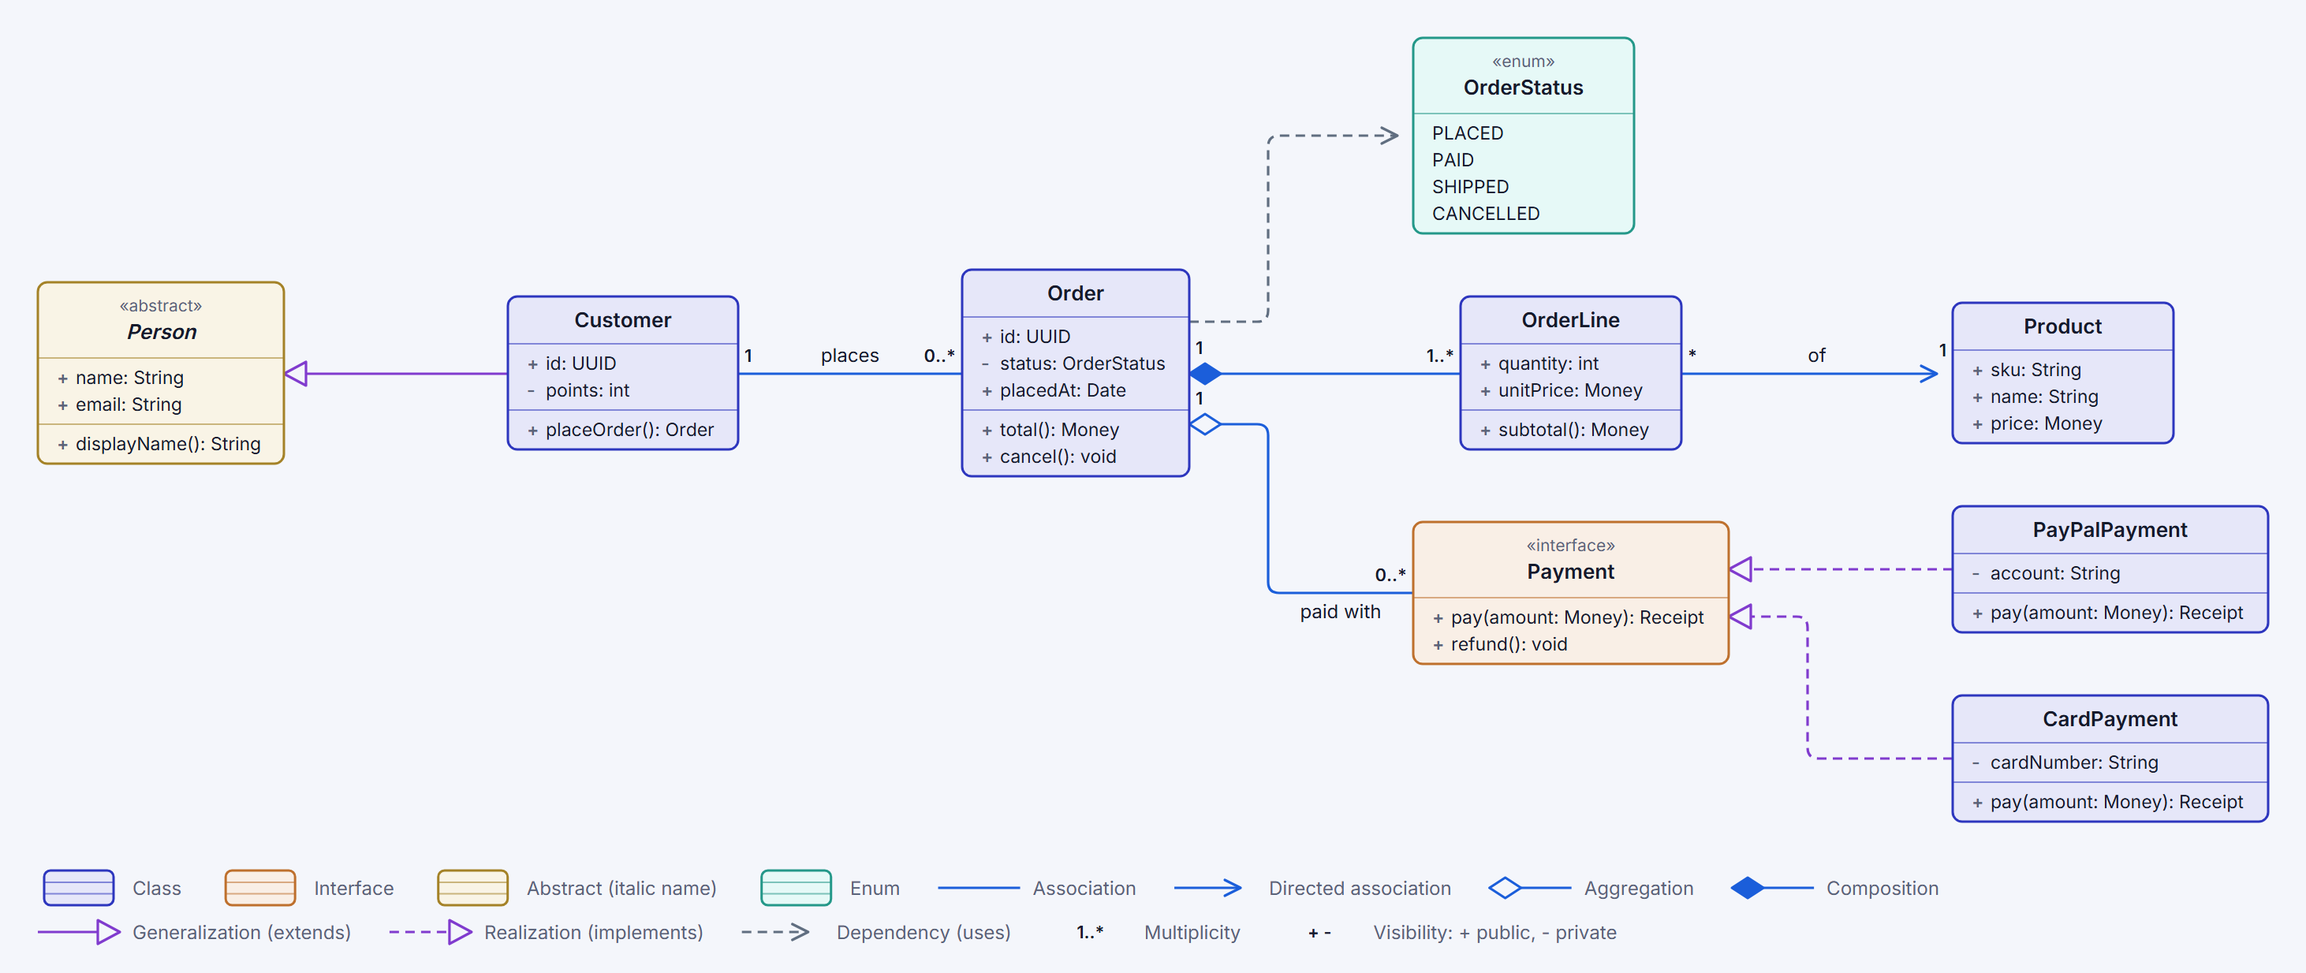
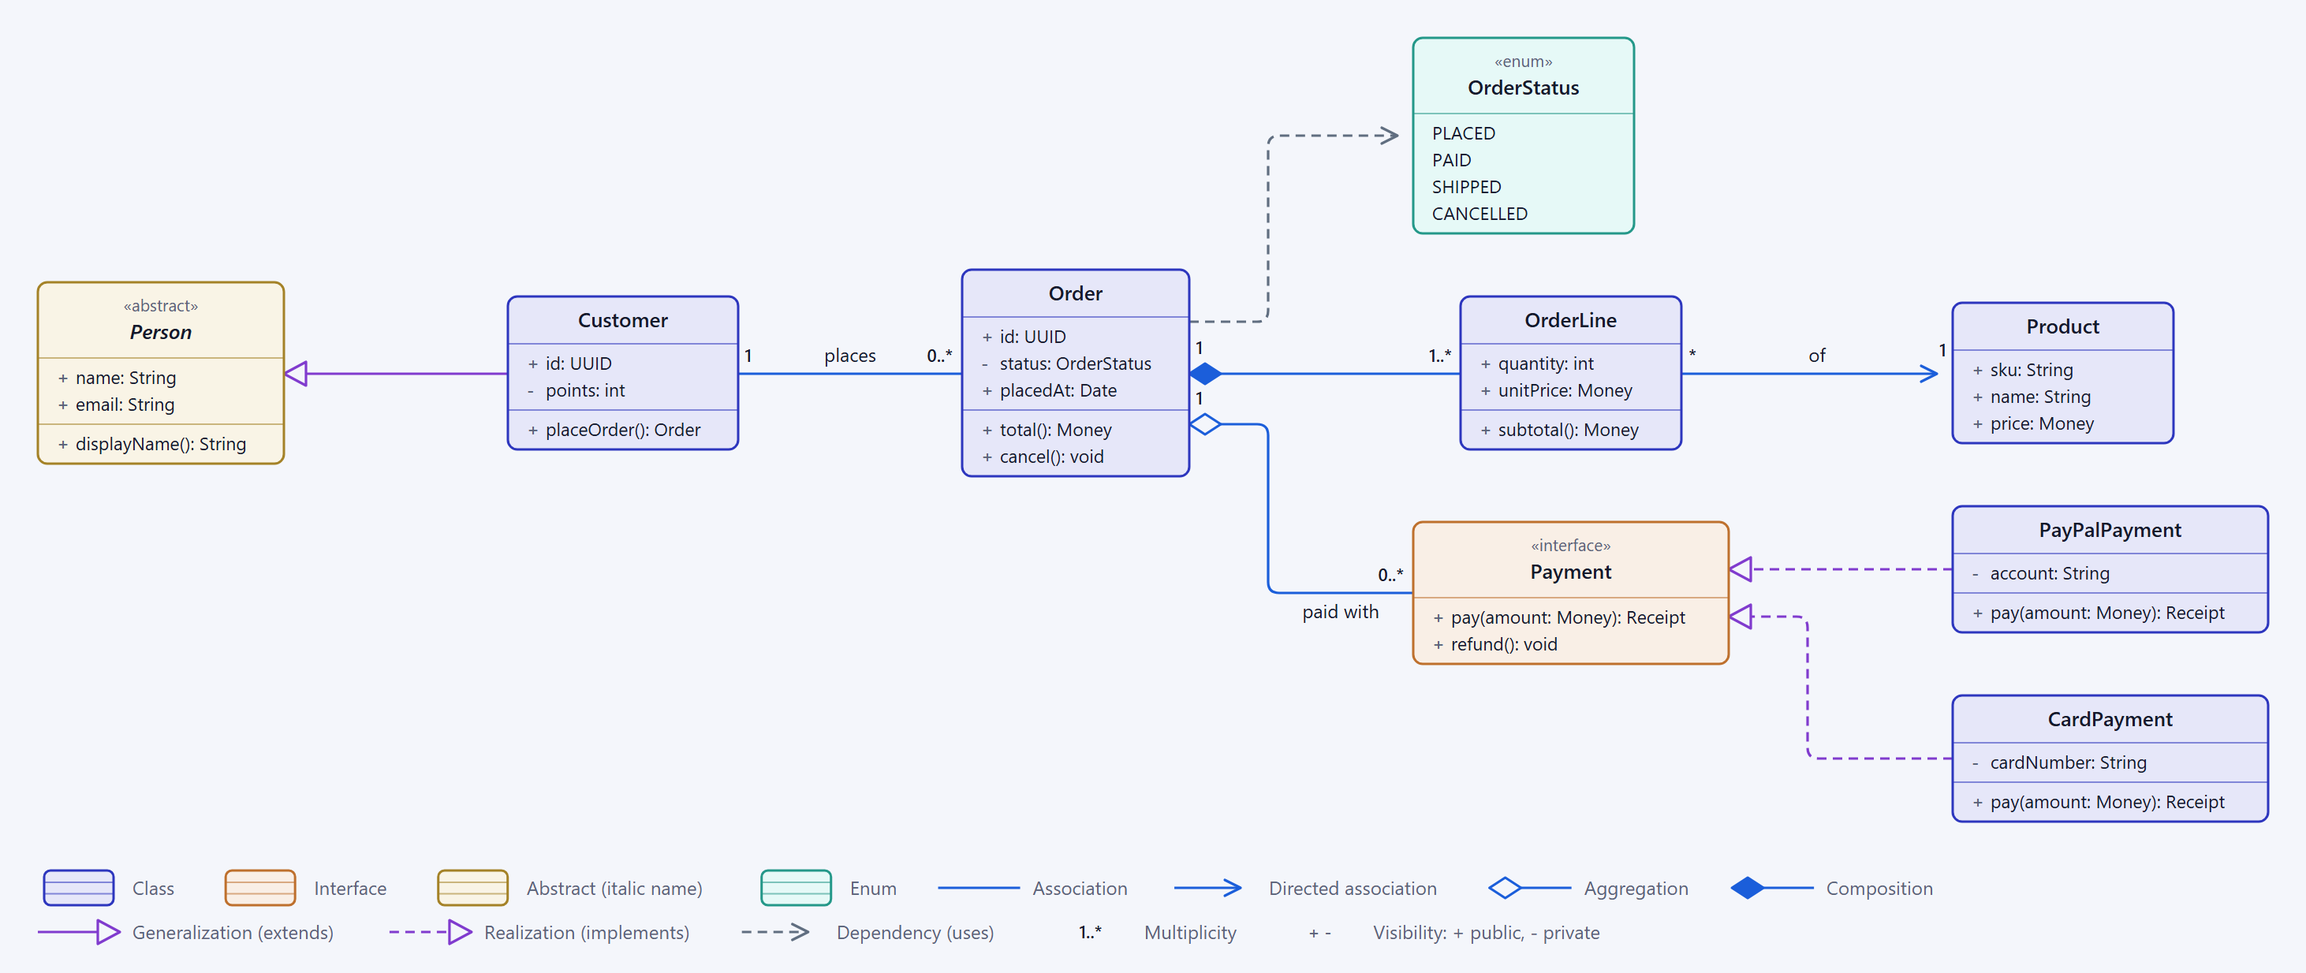
fix(class): keep relation text clear, spread hub ends and mute the legend glyph

diff --git a/src/layout/class.ts b/src/layout/class.ts
@@ -35,8 +35,8 @@ const MIN_WIDTH = 140;
 const VISIBILITY_INDENT = 12;
 /** A line end keeps this far from the corner of its side, so a marker never sits on the curve. */
 const END_INSET = 14;
-/** Closest two line ends may sit on one side: a multiplicity (14 px high) fits between two lines. */
-const END_STEP = 28;
+/** Closest two line ends may sit on one side: a multiplicity (14 px high) still fits between two lines. */
+const END_STEP = 22;
 /** Run between a class and the first bend of a line: room for the longest marker, a corner and a stretch of line. */
 const STUB = 50;
 const LOOP_RISE = 52;
@@ -55,6 +55,8 @@ interface Sized {
   node: ClassNode;
   w: number;
   h: number;
+  /** Height the members need; the box is taller only when its line ends need more room. */
+  base: number;
   head: number;
   attributes: ClassMember[];
   methods: ClassMember[];
@@ -85,13 +87,15 @@ function size(node: ClassNode, loops: number[]): Sized {
   );
   const rows = compartments.length === 0 ? 1 : compartments.reduce((n, c) => n + c.length, 0);
   const slots = loops.length * LOOP_SLOT + 8;
+  const h =
+    (stereotype === undefined ? HEAD : HEAD_STEREOTYPE) +
+    Math.max(1, compartments.length) * COMPARTMENT_PAD +
+    rows * ROW;
   return {
     node,
     w: Math.max(MIN_WIDTH, even(widest), loops.length > 0 ? slots : 0),
-    h:
-      (stereotype === undefined ? HEAD : HEAD_STEREOTYPE) +
-      Math.max(1, compartments.length) * COMPARTMENT_PAD +
-      rows * ROW,
+    h,
+    base: h,
     head: stereotype === undefined ? HEAD : HEAD_STEREOTYPE,
     attributes: node.attributes,
     methods: node.methods,
@@ -127,23 +131,26 @@ function sceneNode(s: Sized, x: number, y: number): SceneNode {
   }
   if (node.stereotype === "abstract") c.abstract = true;
   let top = y + s.head;
-  [s.attributes, s.methods]
-    .filter((comp) => comp.length > 0)
-    .forEach((comp, k) => {
-      if (k > 0) c.rules.push(top);
-      const method = comp === s.methods;
-      comp.forEach((m, j) => {
-        const rowTop = top + COMPARTMENT_PAD / 2 + j * ROW + (ROW - lineHeight(MEMBER_SIZE)) / 2;
-        const bodyX = x + 12 + (m.visibility === undefined ? 0 : VISIBILITY_INDENT);
-        c.members.push({
-          ...(m.visibility === undefined
-            ? {}
-            : { vis: text(m.visibility, MEMBER_SIZE, 600, x + 12, rowTop, "start") }),
-          text: text(memberText(m, method), MEMBER_SIZE, 400, bodyX, rowTop, "start"),
-        });
+  const filled = [s.attributes, s.methods].filter((comp) => comp.length > 0);
+  // A box grown for its line ends shares the extra height between its compartments and centres the
+  // rows in them, so it reads as a deliberately tall card, not as a box with an empty bottom.
+  const extra = (s.h - s.base) / Math.max(1, filled.length);
+  filled.forEach((comp, k) => {
+    if (k > 0) c.rules.push(top);
+    const method = comp === s.methods;
+    comp.forEach((m, j) => {
+      const rowTop =
+        top + COMPARTMENT_PAD / 2 + extra / 2 + j * ROW + (ROW - lineHeight(MEMBER_SIZE)) / 2;
+      const bodyX = x + 12 + (m.visibility === undefined ? 0 : VISIBILITY_INDENT);
+      c.members.push({
+        ...(m.visibility === undefined
+          ? {}
+          : { vis: text(m.visibility, MEMBER_SIZE, 600, x + 12, rowTop, "start") }),
+        text: text(memberText(m, method), MEMBER_SIZE, 400, bodyX, rowTop, "start"),
       });
-      top += COMPARTMENT_PAD + comp.length * ROW;
     });
+    top += COMPARTMENT_PAD + comp.length * ROW + extra;
+  });
   const out: SceneNode = {
     id: node.id,
     kind: node.stereotype ?? "class",
@@ -500,21 +507,46 @@ export async function layoutClass(d: ClassDiagram): Promise<Scene> {
     obstacles.push({ r: rectOf(box), gap: TEXT_GAP });
     return box;
   };
-  const firstFree = (candidates: Box[]) => take(candidates.find(free) ?? candidates[0]!);
+  /** How much of a box lies on obstacles: the measure of last resort when no candidate is free. */
+  const overlap = (box: Box) => {
+    const r = rectOf(box);
+    return obstacles.reduce((sum, o) => {
+      const w = Math.min(r.x1, o.r.x1 + o.gap) - Math.max(r.x0, o.r.x0 - o.gap);
+      const h = Math.min(r.y1, o.r.y1 + o.gap) - Math.max(r.y0, o.r.y0 - o.gap);
+      return w > 0 && h > 0 ? sum + w * h : sum;
+    }, 0);
+  };
+  // The first free candidate wins (nearest first); with none free, the one lying on the least.
+  const firstFree = (candidates: Box[]) =>
+    take(
+      candidates.find(free) ??
+        candidates.reduce((best, c) => (overlap(c) < overlap(best) ? c : best)),
+    );
 
   /** Candidate boxes for a multiplicity next to the end at p; u points along the line away from the class. */
-  const multCandidates = (w: number, h: number, p: Point, u: Point, half: number): Box[] => {
-    const gap = Math.max(half, 1.6) + 3;
+  const multCandidates = (
+    w: number,
+    h: number,
+    p: Point,
+    u: Point,
+    half: number,
+    len: number,
+  ): Box[] => {
+    const wide = Math.max(half, 1.6) + 3;
     const out: Box[] = [];
-    for (const along of [0, 14, 28, 42]) {
-      if (Math.abs(u.x) > 0.5) {
-        const x = u.x > 0 ? p.x + 4 + along : p.x - 4 - along - w;
-        out.push({ x, y: p.y - gap - h, w, h }, { x, y: p.y + gap, w, h });
-      } else {
-        const y = u.y < 0 ? p.y - 3 - along - h : p.y + 3 + along;
-        out.push({ x: p.x + gap, y, w, h }, { x: p.x - gap - w, y, w, h });
+    // Nearest first: along the leg, then farther from the line, on both sides.
+    for (const out2 of [0, 10, 20])
+      for (const along of [0, 14, 28, 42, 56, 70, 84]) {
+        // Past the marker the text may sit as close as to a plain line.
+        const gap = along + 4 >= len ? 4.6 : wide;
+        if (Math.abs(u.x) > 0.5) {
+          const x = u.x > 0 ? p.x + 4 + along : p.x - 4 - along - w;
+          out.push({ x, y: p.y - gap - out2 - h, w, h }, { x, y: p.y + gap + out2, w, h });
+        } else {
+          const y = u.y < 0 ? p.y - 3 - along - h : p.y + 3 + along;
+          out.push({ x: p.x + gap + out2, y, w, h }, { x: p.x - gap - out2 - w, y, w, h });
+        }
       }
-    }
     return out;
   };
 
@@ -529,7 +561,16 @@ export async function layoutClass(d: ClassDiagram): Promise<Scene> {
       if (value === undefined) continue;
       const w = textWidth(value, MULT_SIZE, 600);
       const h = lineHeight(MULT_SIZE);
-      const box = firstFree(multCandidates(w, h, p, dir(p, q), MARKER_HALF[r.rel.kind][end]));
+      const box = firstFree(
+        multCandidates(
+          w,
+          h,
+          p,
+          dir(p, q),
+          MARKER_HALF[r.rel.kind][end],
+          MARKER_LENGTH[r.rel.kind][end],
+        ),
+      );
       found[key] = placeText(value, MULT_SIZE, 600, box);
     }
     return found;
@@ -547,21 +588,22 @@ export async function layoutClass(d: ClassDiagram): Promise<Scene> {
           q.len - p.len,
       );
     const candidates: Box[] = [];
-    for (const f of [0.5, 0.3, 0.7, 0.15, 0.85])
-      for (const { a, b } of legs) {
-        const x = a.x + (b.x - a.x) * f;
-        const y = a.y + (b.y - a.y) * f;
-        if (Math.abs(a.y - b.y) < 1e-6)
-          candidates.push(
-            { x: x - w / 2, y: y - TEXT_GAP - h, w, h },
-            { x: x - w / 2, y: y + TEXT_GAP, w, h },
-          );
-        else
-          candidates.push(
-            { x: x + TEXT_GAP + 2, y: y - h / 2, w, h },
-            { x: x - TEXT_GAP - 2 - w, y: y - h / 2, w, h },
-          );
-      }
+    for (const out2 of [0, 12, 24])
+      for (const f of [0.5, 0.3, 0.7, 0.15, 0.85, 0.4, 0.6, 0.22, 0.78])
+        for (const { a, b } of legs) {
+          const x = a.x + (b.x - a.x) * f;
+          const y = a.y + (b.y - a.y) * f;
+          if (Math.abs(a.y - b.y) < 1e-6)
+            candidates.push(
+              { x: x - w / 2, y: y - TEXT_GAP - out2 - h, w, h },
+              { x: x - w / 2, y: y + TEXT_GAP + out2, w, h },
+            );
+          else
+            candidates.push(
+              { x: x + TEXT_GAP + 2 + out2, y: y - h / 2, w, h },
+              { x: x - TEXT_GAP - 2 - out2 - w, y: y - h / 2, w, h },
+            );
+        }
     return placeText(r.rel.label, LABEL_SIZE, 400, firstFree(candidates));
   });
 

diff --git a/test/unit/class-render.test.ts b/test/unit/class-render.test.ts
@@ -8,6 +8,7 @@ import { make } from "../../src/index.js";
 import { layoutDiagram } from "../../src/layout/index.js";
 import { validateDiagram } from "../../src/model/index.js";
 import { renderSvg } from "../../src/render/svg.js";
+import { MARKER_HALF } from "../../src/render/class.js";
 import type { Box, Point, Scene, SceneEdge, SceneNode } from "../../src/scene.js";
 
 const example = JSON.parse(readFileSync("examples/class.json", "utf8")) as {
@@ -79,6 +80,28 @@ function textBoxes(e: SceneEdge): Box[] {
   );
 }
 
+/** The box a marker fills at each end of a relation. */
+function markerBoxes(e: SceneEdge): Box[] {
+  const n = e.points.length;
+  return ([0, 1] as const).flatMap((end) => {
+    const len = LENGTH[e.rel!.kind]![end];
+    if (len === 0) return [];
+    const p = end === 0 ? e.points[0]! : e.points[n - 1]!;
+    const q = end === 0 ? e.points[1]! : e.points[n - 2]!;
+    const half = MARKER_HALF[e.rel!.kind][end];
+    return [
+      Math.abs(p.y - q.y) < 1e-6
+        ? { x: Math.min(p.x, p.x + Math.sign(q.x - p.x) * len), y: p.y - half, w: len, h: 2 * half }
+        : {
+            x: p.x - half,
+            y: Math.min(p.y, p.y + Math.sign(q.y - p.y) * len),
+            w: 2 * half,
+            h: len,
+          },
+    ];
+  });
+}
+
 /** Everything the layout promises about any class scene. */
 function expectClean(scene: Scene, name: string): void {
   expect(checkGeometry(scene), name).toEqual([]);
@@ -131,6 +154,14 @@ function expectClean(scene: Scene, name: string): void {
         ).toBe(false);
       });
   }
+  // ... and of every marker.
+  for (const { e, box } of all)
+    for (const f of scene.edges)
+      for (const m of markerBoxes(f))
+        expect(
+          overlaps(box, m, 1),
+          `${name}: text of ${e.from}->${e.to} on a marker of ${f.from}->${f.to}`,
+        ).toBe(false);
   for (let i = 0; i < all.length; i++)
     for (let j = i + 1; j < all.length; j++)
       expect(overlaps(all[i]!.box, all[j]!.box, 2), `${name}: texts ${i} and ${j}`).toBe(false);
@@ -292,6 +323,66 @@ describe("class layout, any valid diagram", () => {
     expectClean(s, "hub");
   });
 
+  it("a hub with many named relations with multiplicities on one side keeps every text clear", async () => {
+    const kinds = ["--", "*--", "o--", "-->", "--|>", "..>"];
+    for (const count of [6, 12, 16]) {
+      const names = Array.from({ length: count }, (_, i) => `K${i}`);
+      const rels = names.map((n, i) => {
+        const op = kinds[i % kinds.length]!;
+        const bare = op === "--|>" || op === "..>";
+        return bare
+          ? `Hub ${op} ${n} : a rather long role name ${i}`
+          : `Hub 1..* ${op} 0..* ${n} : a rather long relation name ${i}`;
+      });
+      const s = await sceneOf(
+        diagram(
+          [
+            cls("Hub", { attributes: ["+ id: int", "+ name: String"] }),
+            ...names.map((n) => cls(n)),
+          ],
+          rels,
+        ),
+      );
+      expectClean(s, `crowded hub ${count}`);
+    }
+  });
+
+  it("a hub does not grow taller than its members when its ends fit", async () => {
+    const hub = {
+      attributes: ["+ a: int", "+ b: int", "+ c: int", "+ d: int"],
+      methods: ["+ f(): void", "+ g(): void"],
+    };
+    const heightWith = async (count: number) => {
+      const names = Array.from({ length: count }, (_, i) => `K${i}`);
+      const s = await sceneOf(
+        diagram(
+          [cls("Hub", hub), ...names.map((n) => cls(n))],
+          names.map((n) => `Hub 1 -- * ${n}`),
+        ),
+      );
+      expectClean(s, `hub ${count}`);
+      return node(s, "Hub").h;
+    };
+    const natural = await heightWith(1);
+    expect(await heightWith(6)).toBe(natural);
+  });
+
+  it("when a hub must grow, its members sit centred in their compartment (no hole below)", async () => {
+    const names = Array.from({ length: 10 }, (_, i) => `K${i}`);
+    const s = await sceneOf(
+      diagram(
+        [cls("Hub", { attributes: ["+ a: int"] }), ...names.map((n) => cls(n))],
+        names.map((n) => `Hub 1 -- * ${n}`),
+      ),
+    );
+    const hub = node(s, "Hub");
+    const row = hub.class!.members[0]!.text;
+    const above = row.y - hub.class!.rules[0]!;
+    const below = hub.y + hub.h - row.y;
+    expect(hub.h).toBeGreaterThan(140);
+    expect(Math.abs(above - below)).toBeLessThan(10);
+  });
+
   it("long names and long members widen the box and stay inside it", async () => {
     const s = await sceneOf(
       diagram(
@@ -419,6 +510,14 @@ describe("class svg", () => {
       "Class",
       "Generalization (extends)",
     ]);
+  });
+
+  it("draws the legend visibility glyph in the muted color of the marks in the boxes", async () => {
+    const svg = renderSvg(await sceneOf(example));
+    const glyph = /<text class="([^"]*)"[^>]*>\+ -<\/text>/.exec(svg)!;
+    expect(glyph[1]).toContain("t-class-vis");
+    expect(glyph[1]).not.toContain("t-class-text");
+    expect(svg).toMatch(/\.t-class-vis \{ fill: var\(--t-muted,/);
   });
 
   it("works in the black-and-white export: every color is a theme variable", async () => {

diff --git a/src/render/class.ts b/src/render/class.ts
@@ -156,7 +156,9 @@ export function classGlyph(name: string, s: Box): string {
   }
   if (name === "class-mult" || name === "class-vis") {
     const label = name === "class-mult" ? "1..*" : "+ -";
-    return `<text class="t-text t-class-text t-class-mult" x="${num(s.x + s.w / 2)}" y="${num(cy + 4)}" font-size="11" font-weight="600" text-anchor="middle">${label}</text>`;
+    // The visibility glyph wears the class of the marks in the boxes, so every theme mutes it alike.
+    const cls = name === "class-mult" ? "t-class-text t-class-mult" : "t-class-vis";
+    return `<text class="t-text ${cls}" x="${num(s.x + s.w / 2)}" y="${num(cy + 4)}" font-size="11" font-weight="600" text-anchor="middle">${label}</text>`;
   }
   const kind = name.slice("class-rel-".length) as RelationKind;
   const pts = [

diff --git a/CHANGELOG.md b/CHANGELOG.md
@@ -7,6 +7,7 @@ All notable changes to trazo are listed here. The format follows [Keep a Changel
 ### Added
 
 - New diagram type `class` (UML class diagram, basic notation). `classes` (`stereotype`: `abstract`, `interface` or `enum`; `attributes` and `methods` as UML strings such as `"+ id: UUID"` and `"- total(): Money"`; an enum lists its constants in `attributes`) and `relations` as one-line strings such as `"Order 1 *-- 1..* OrderLine : has"` with the operators `--`, `-->`, `*--`, `o--`, `--|>`, `..|>` and `..>` and optional multiplicities (`1`, `0..1`, `*`, `1..*`, `0..*`, `n..m`) and label. `trazo make` draws it: ELK places the classes in layers from left to right, so the order flow reads as one direction and each hierarchy (a parent or an interface before its children) is a small group at its edge; every class is a box with a name header (a `«interface»`, `«abstract»` or `«enum»` line above the name, an italic name for an abstract class), an attribute compartment and a method compartment, tinted as a whole by its kind. Relations are orthogonal lines whose ends and markers sit exactly on the class borders, away from the corners: a hollow triangle for generalization (solid line) and realization (dashed), a filled (composition) or hollow (aggregation) diamond at the whole end, an open arrow for directed association and dependency (dashed). Multiplicities and labels sit next to the ends where they touch no line, marker or class, and a relation of a class to itself is a loop above the class. A legend (English, only the kinds and relations used) is drawn below the diagram; the viewer has no Flow toggle, and its detail card lists the stereotype, attributes, methods and relations of a class in plain language ("Extends Person.", "Is composed of OrderLine (1..*)."). It works in the four themes and in the black-and-white export. New codes: `class/member-syntax`, `class/relation-syntax`, `class/multiplicity`, `class/enum-methods`, `class/realization-target`, `class/generalization-cycle`, `ref/unknown-class` and the warnings `class/unused` and `class/duplicate-member`. `trazo schema class` and `trazo example class` (online store) print the reference and the example.
+- Class diagram polish: multiplicities and relation names search many more spots (farther along and away from the line, both sides) and, only when nothing is free, take the one that overlaps least, so they never touch a line, marker or class when there is room; a class with many line ends keeps its natural height up to 6 ends on a side (ends 22 px apart instead of 28) and, when it must grow, centres its members in their compartments instead of leaving an empty bottom; the legend visibility glyph (`+ -`) is muted like the marks in the boxes, in every theme and in the black-and-white export.
 - New diagram type `state` (UML state diagram, basic notation). `states` (`kind`: `initial`, `final`, `exception` or a plain state) and `transitions` written as `"from -> to: event"` or `{from, to, label}`; self-transitions are allowed. `trazo make` draws it as a rail: the happy path (the longest chain of ordinary states from the initial one) is one thick row from left to right, transitions that lead back to it run above, cancel and failure transitions run below and are dashed with their exception states tinted in the failure color, event names sit above the lines, a self-transition is a loop over its state, and the initial pseudostate (dot) and final state (ring) are drawn. A legend of the elements used (English) is drawn inside the SVG below the diagram; the viewer has no Flow toggle and its detail card reads each state in plain language ("Reached from Draft on submit.", "Moves to Approved on approve."). It works in the four themes and in the black-and-white export. Composite states, history and decision pseudostates and regions are rejected with `state/unsupported`. New codes: `state/unsupported`, `state/initial-count`, `state/initial-incoming`, `state/initial-outgoing`, `state/final-outgoing`, `ref/unknown-state` and the warnings `state/no-event`, `state/dead-end` and `state/unreachable`. `trazo schema state` and `trazo example state` (purchase order) print the reference and the example.
 - Black-and-white exports in the viewer: the Export menu gains PNG, SVG and PDF (print dialog) variants that draw any diagram in ink on white, with no family tints, shadows or edge colors while dashes, double lines, underlines and markers stay. They apply to the exported copy only; the page and the inline SVG are unchanged, and the credit strip is drawn in ink too.
 - New diagram type `chen` (Chen entity-relationship notation, for teaching). `trazo make` draws it: each entity and its attributes form one block that ELK places with the relationship diamonds between entities, attributes stack in a column on the entity's free side (a row on top when both sides are busy) with composite parts one column further out, relationship attributes hang from their diamond, and a recursive relationship goes around. Shapes: entity, weak entity (double rectangle), relationship, identifying relationship (double diamond), attribute oval, key (underlined), partial key (dashed underline), multivalued (double oval), derived (dashed), composite; total participation is a double line, and 1, N or M sits next to the line at each entity with a halo. Every line ends exactly on the outline of its shapes. A notation legend (English, only the elements used) is drawn below the diagram; the viewer has no Flow toggle, and its detail card shows `detail` (else `note`) and a plain-language reading of a relationship ("Each Section is related to exactly one Course."). The JSON model: entities (`weak`), binary relationships (`identifying`, `participants` with `cardinality` `1`, `N` or `M` and `total`), and attributes that are a string or `{name, kind, children}` (`kind`: `key`, `partial`, `multivalued`, `derived`; `children` makes it composite). Ternary relationships are rejected with `chen/ternary` for now; a weak entity needs an identifying relationship with total participation; partial keys only on weak entities. New codes: `chen/ternary`, `chen/participants`, `chen/identifying-no-weak`, `chen/weak-not-identified`, `chen/partial-key`, `chen/key-on-weak`, `chen/attribute-kind`, `chen/nesting`, `chen/duplicate-attribute`, `ref/unknown-entity` and the warnings `chen/no-key` and `chen/no-partial-key`. `trazo schema chen` and `trazo example chen` (University) print the reference and the example.
